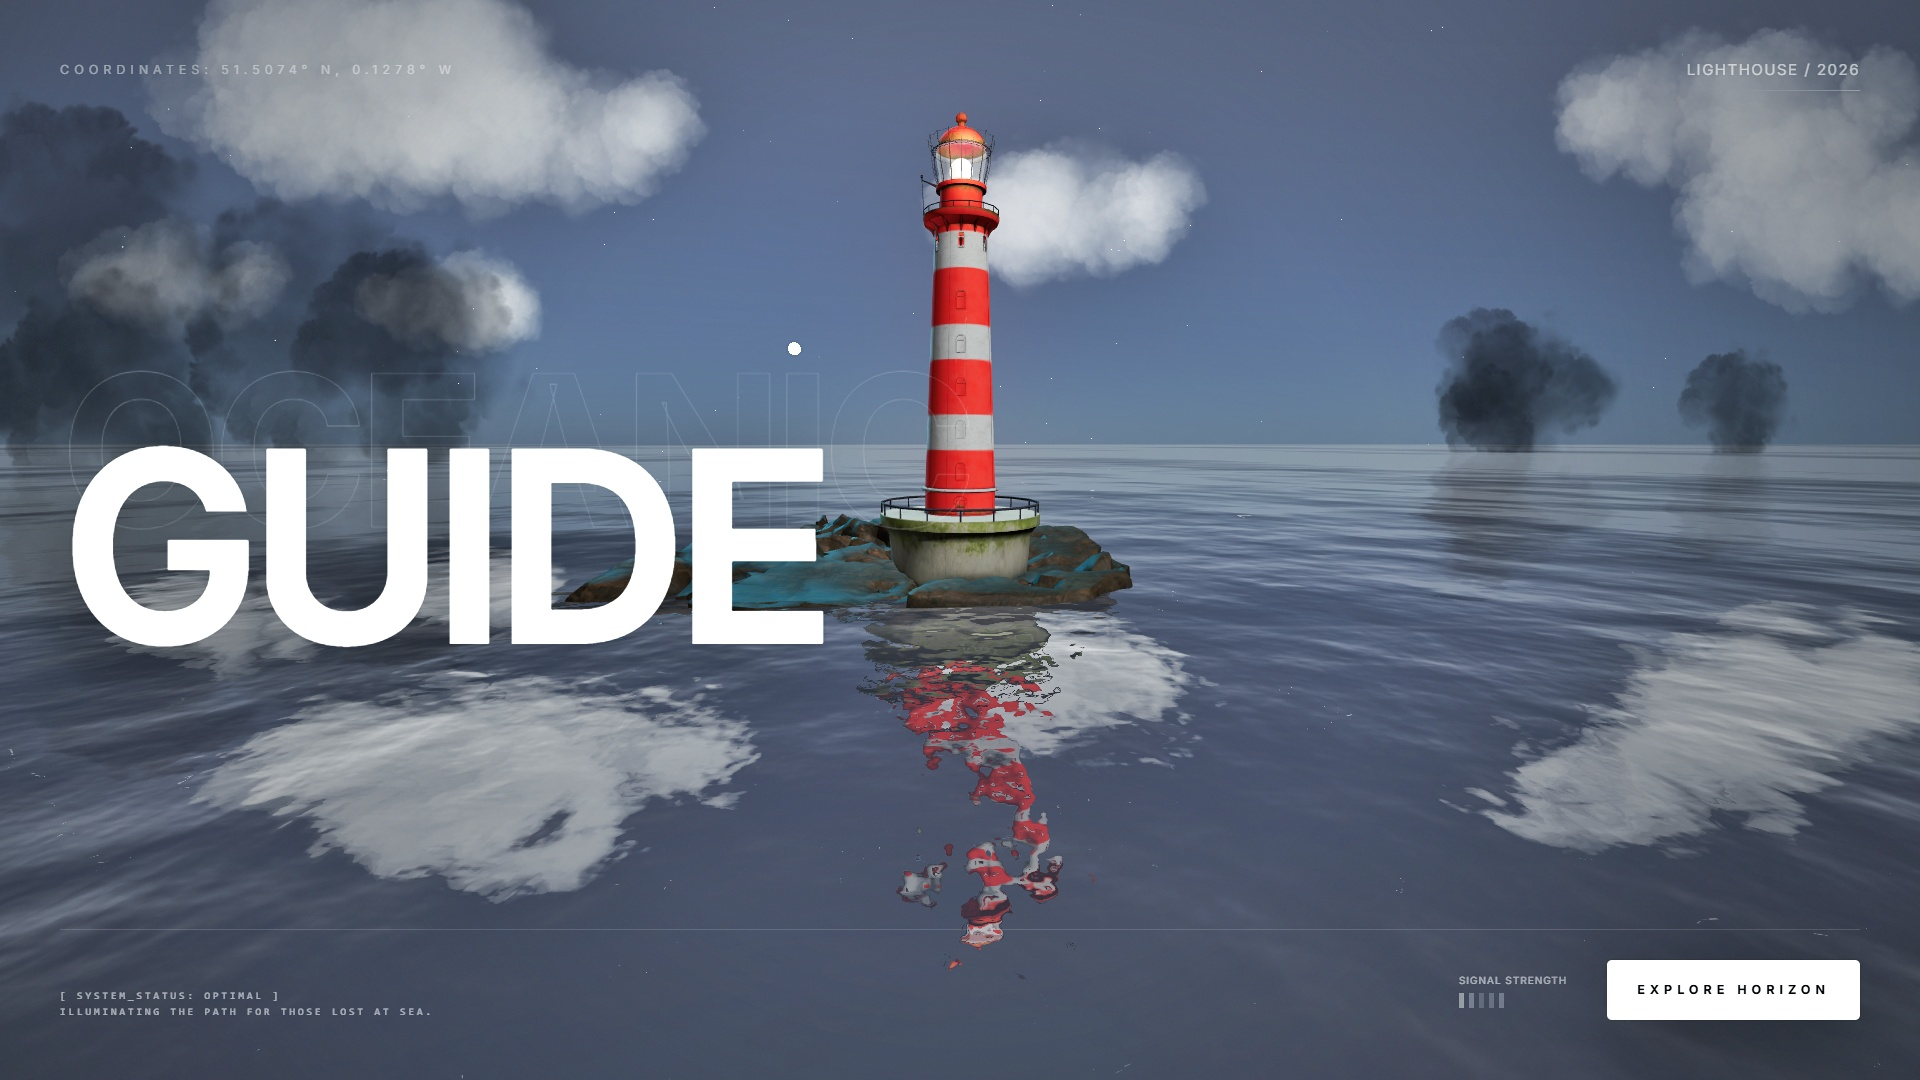
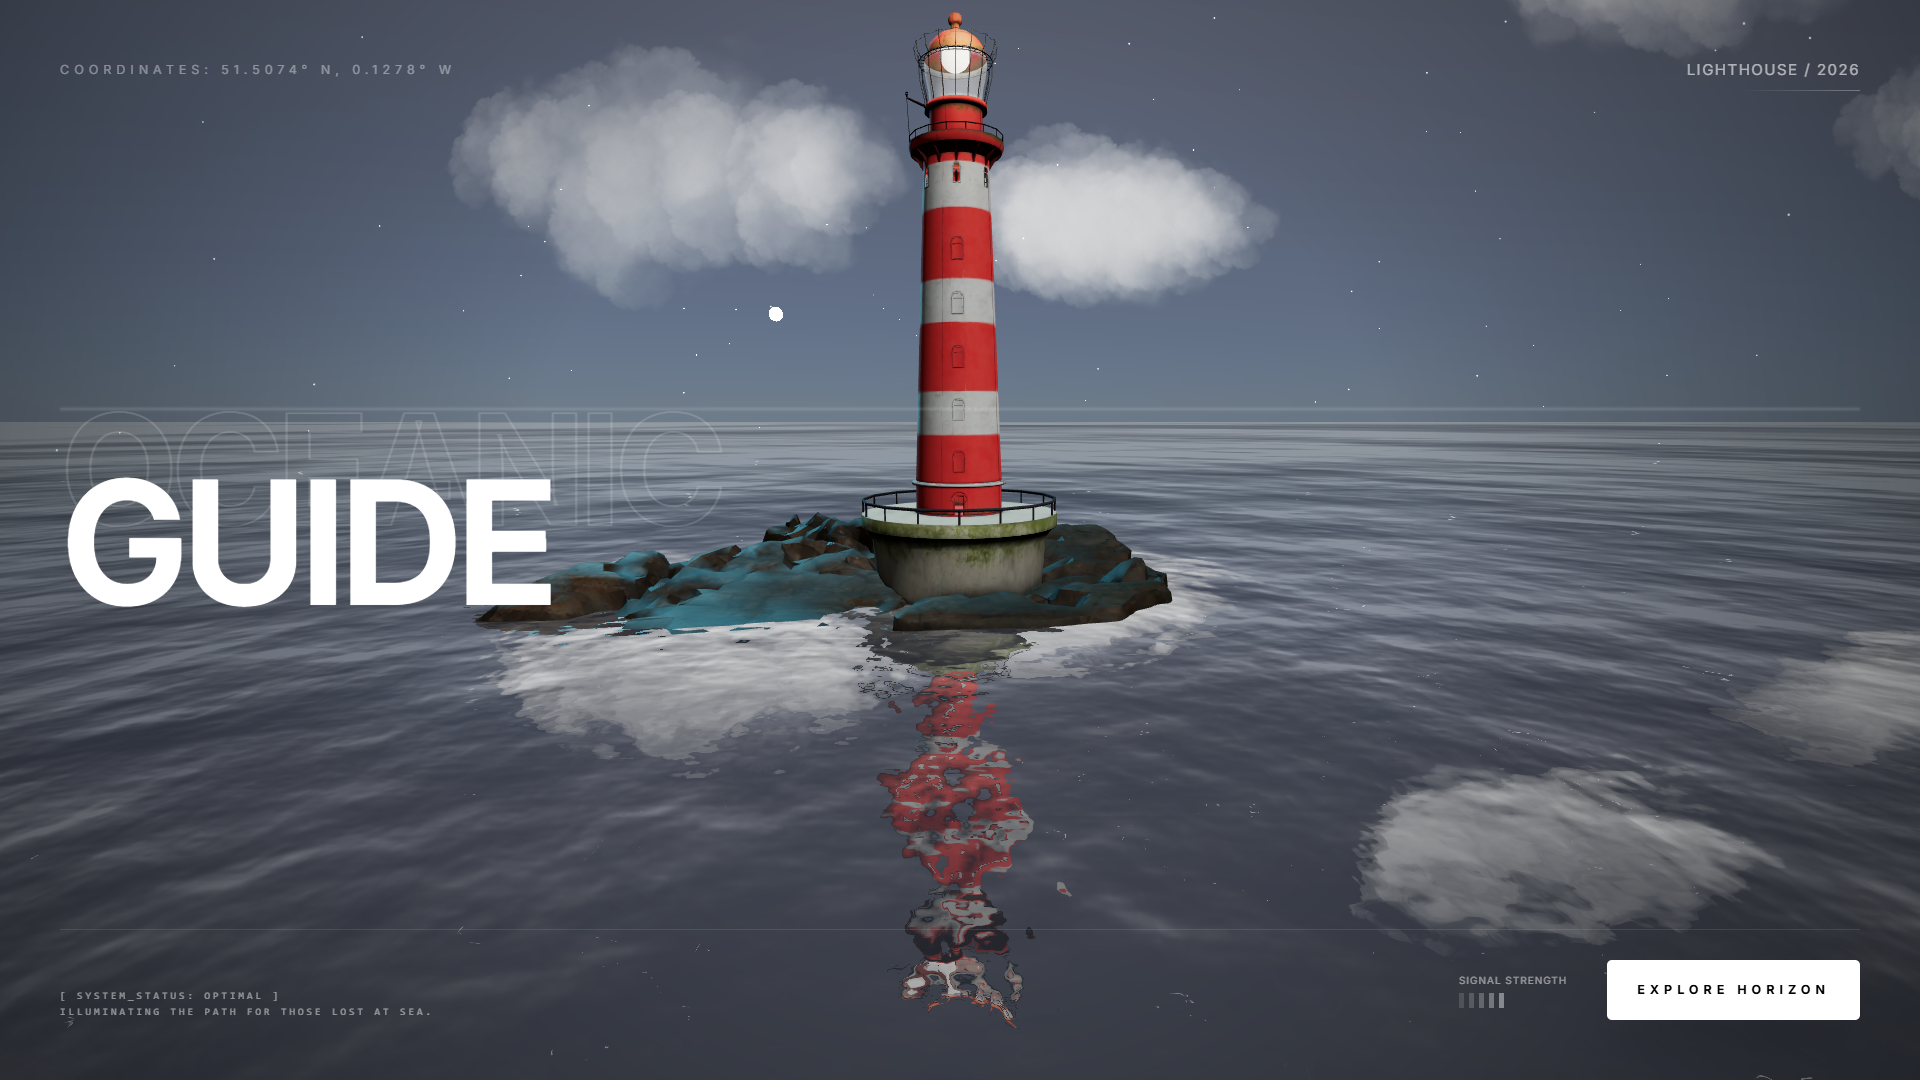
update code

diff --git a/src/app/Loader/loader.tsx b/src/app/Loader/loader.tsx
@@ -12,7 +12,7 @@ export default function AwwwardLighthouseLoader({ onComplete }: { onComplete?: (
       const timer = setTimeout(() => {
         setIsFinished(true);
         onComplete?.();
-      }, 800);
+      }, 600);
       return () => clearTimeout(timer);
     }
   }, [progress, onComplete]);
@@ -29,7 +29,6 @@ export default function AwwwardLighthouseLoader({ onComplete }: { onComplete?: (
             transition: { duration: 0.8, ease: [0.76, 0, 0.24, 1] } 
           }}
         >
-          {/* 🌊 AMBIENT GRADIENT BLOB */}
           <motion.div 
             animate={{ 
               scale: [1, 1.2, 1],
@@ -46,7 +45,6 @@ export default function AwwwardLighthouseLoader({ onComplete }: { onComplete?: (
                 className="w-16 h-16 mb-10"
              >
                 <svg viewBox="0 0 100 100" className="fill-white overflow-visible">
-                  {/* Subtle Glow behind logo */}
                   <filter id="glow">
                     <feGaussianBlur stdDeviation="2.5" result="coloredBlur"/>
                     <feMerge>
@@ -57,7 +55,6 @@ export default function AwwwardLighthouseLoader({ onComplete }: { onComplete?: (
                     style={{ filter: "url(#glow)" }}
                     d="M50 5 L40 25 L42 85 H58 L60 25 Z" 
                   />
-                  {/* Light Beam from Logo */}
                   <motion.circle 
                     cx="50" cy="15" r="2" fill="gold"
                     animate={{ opacity: [0, 1, 0], scale: [1, 2, 1] }}
@@ -67,7 +64,6 @@ export default function AwwwardLighthouseLoader({ onComplete }: { onComplete?: (
              </motion.div>
           </div>
 
-          {/* 🔡 KINETIC TEXT ENGINE */}
           <div className="relative flex flex-col items-center overflow-hidden py-10">
             <div className="flex overflow-hidden">
               {title.split("").map((letter, i) => (
@@ -87,7 +83,6 @@ export default function AwwwardLighthouseLoader({ onComplete }: { onComplete?: (
               ))}
             </div>
 
-            {/* PROGRESS METER - MINIMALIST */}
             <div className="mt-8 flex items-center gap-6 w-full px-4">
                <span className="text-white/30 text-[10px] tracking-[0.4em] uppercase">Status: Guiding</span>
                <div className="flex-1 h-[1px] bg-white/10 relative overflow-hidden">
@@ -103,7 +98,6 @@ export default function AwwwardLighthouseLoader({ onComplete }: { onComplete?: (
             </div>
           </div>
 
-          {/* 🎥 THE GRAIN & NOISE (Awwwards Secret Sauce) */}
           <div className="pointer-events-none absolute inset-0 opacity-[0.04] mix-blend-screen overflow-hidden">
              <svg viewBox="0 0 200 200" xmlns="http://www.w3.org/2000/svg" className="w-full h-full scale-[2]">
                 <filter id="noiseFilter">
@@ -113,7 +107,6 @@ export default function AwwwardLighthouseLoader({ onComplete }: { onComplete?: (
              </svg>
           </div>
 
-          {/* 🌑 VIGNETTE MASK */}
           <div className="absolute inset-0 bg-[radial-gradient(circle_at_center,transparent_30%,#000_100%)]" />
         </motion.div>
       )}

diff --git a/src/app/lighthouse/lighthouseGLB.tsx b/src/app/lighthouse/lighthouseGLB.tsx
@@ -5,14 +5,13 @@ import { useFrame } from "@react-three/fiber";
 import { useGLTF } from "@react-three/drei";
 
 const LIGHTHOUSE_GLB = "https://cdn.sujitkoji.com/lighthouse/lighthouse.glb"
-const DRACO_DECODER = "https://www.gstatic.com/draco/versioned/decoders/1.5.5/";
 
 
 export default function Lighthouse() {
   const lighthouseRef = useRef<THREE.Group>(null);
   const bulbRef = useRef<THREE.PointLight>(null);
 
-  const { scene } = useGLTF(LIGHTHOUSE_GLB, DRACO_DECODER);
+  const { scene } = useGLTF(LIGHTHOUSE_GLB);
   const lighthouseScene = useMemo(() => scene.clone(), [scene]);
 
   useFrame(({ clock }) => {
@@ -73,4 +72,4 @@ export default function Lighthouse() {
   );
 }
 
-useGLTF.preload(LIGHTHOUSE_GLB, DRACO_DECODER);
+useGLTF.preload(LIGHTHOUSE_GLB);
